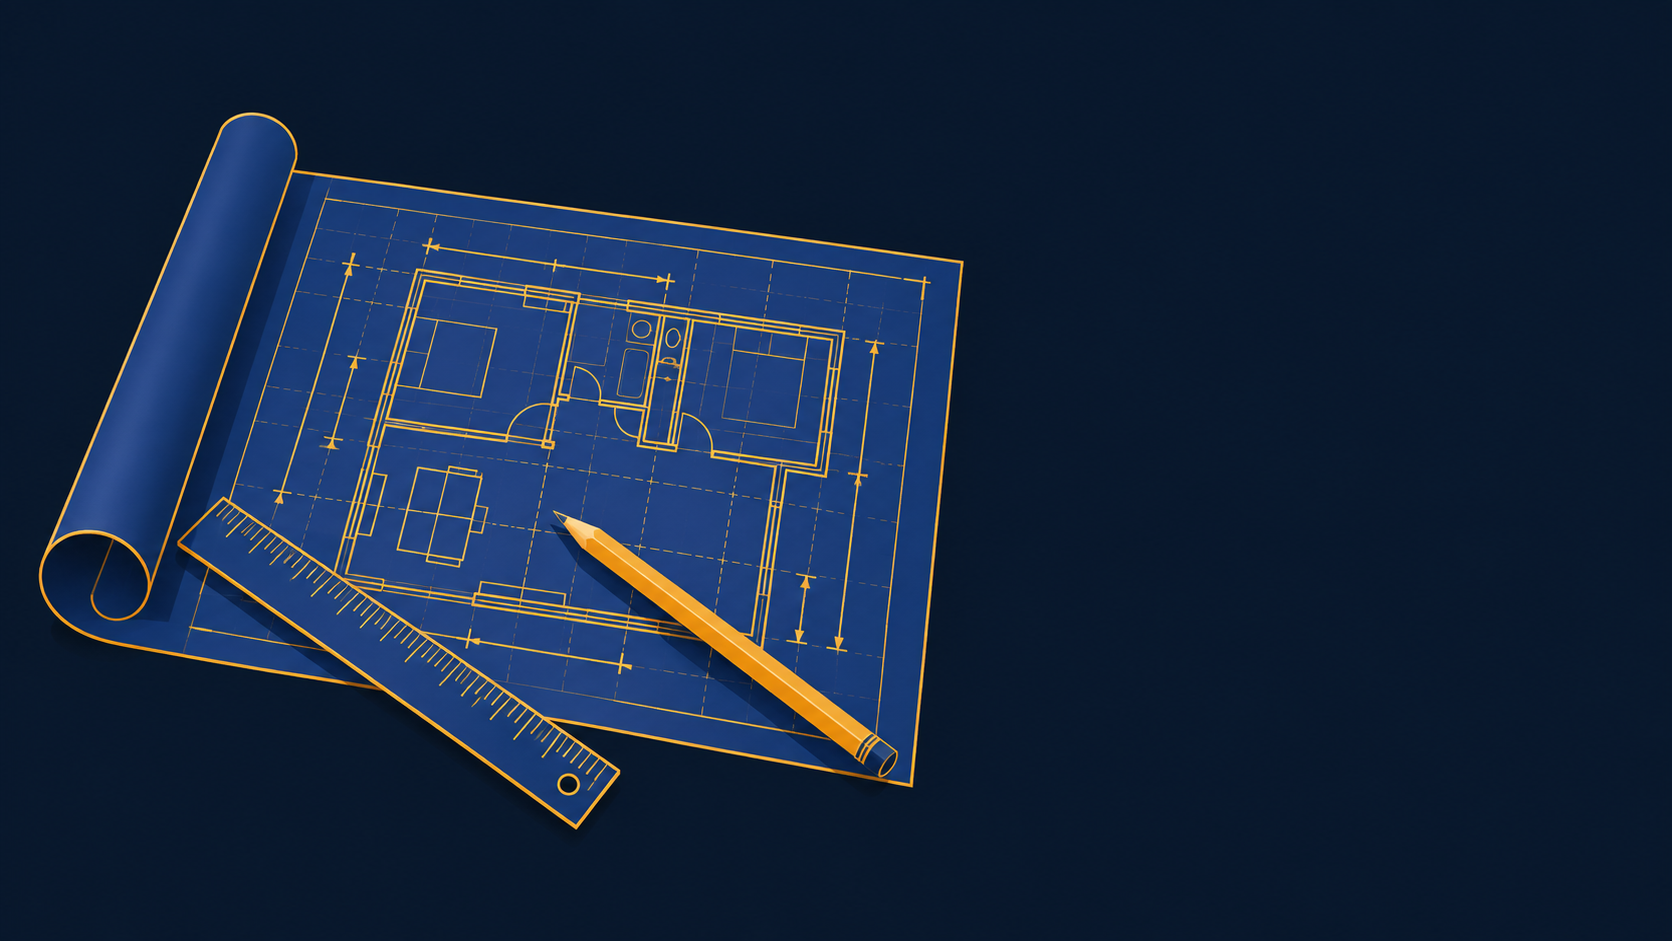
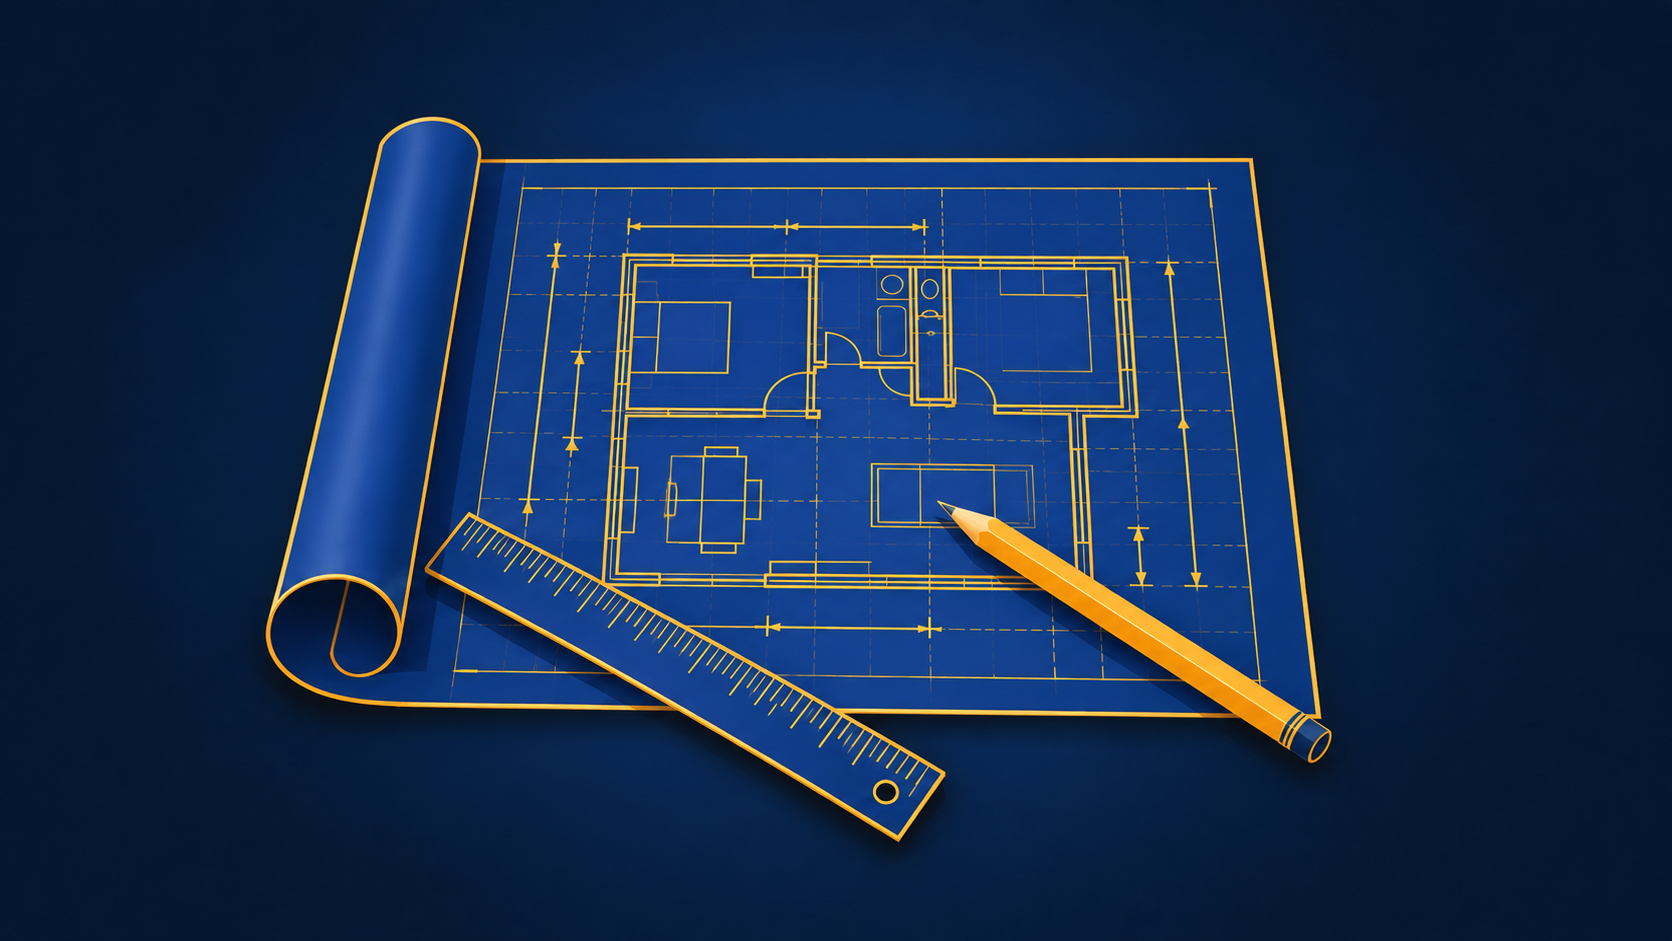
feat: centra plano SDD y actualiza evento

diff --git a/src/components/slides/Slide01Hero.svelte b/src/components/slides/Slide01Hero.svelte
@@ -12,7 +12,7 @@
   <div class="slide-content">
     <div class="eyebrow">
       <span class="eyebrow-dot"></span>
-      <span>Codigo Sin Siesta · Parque Temático · 2026</span>
+      <span>PARALELO 37 · SOFTWARE ENGINEERING &amp; DEV CULTURE · JAÉN</span>
     </div>
 
     <h1 class="title">
